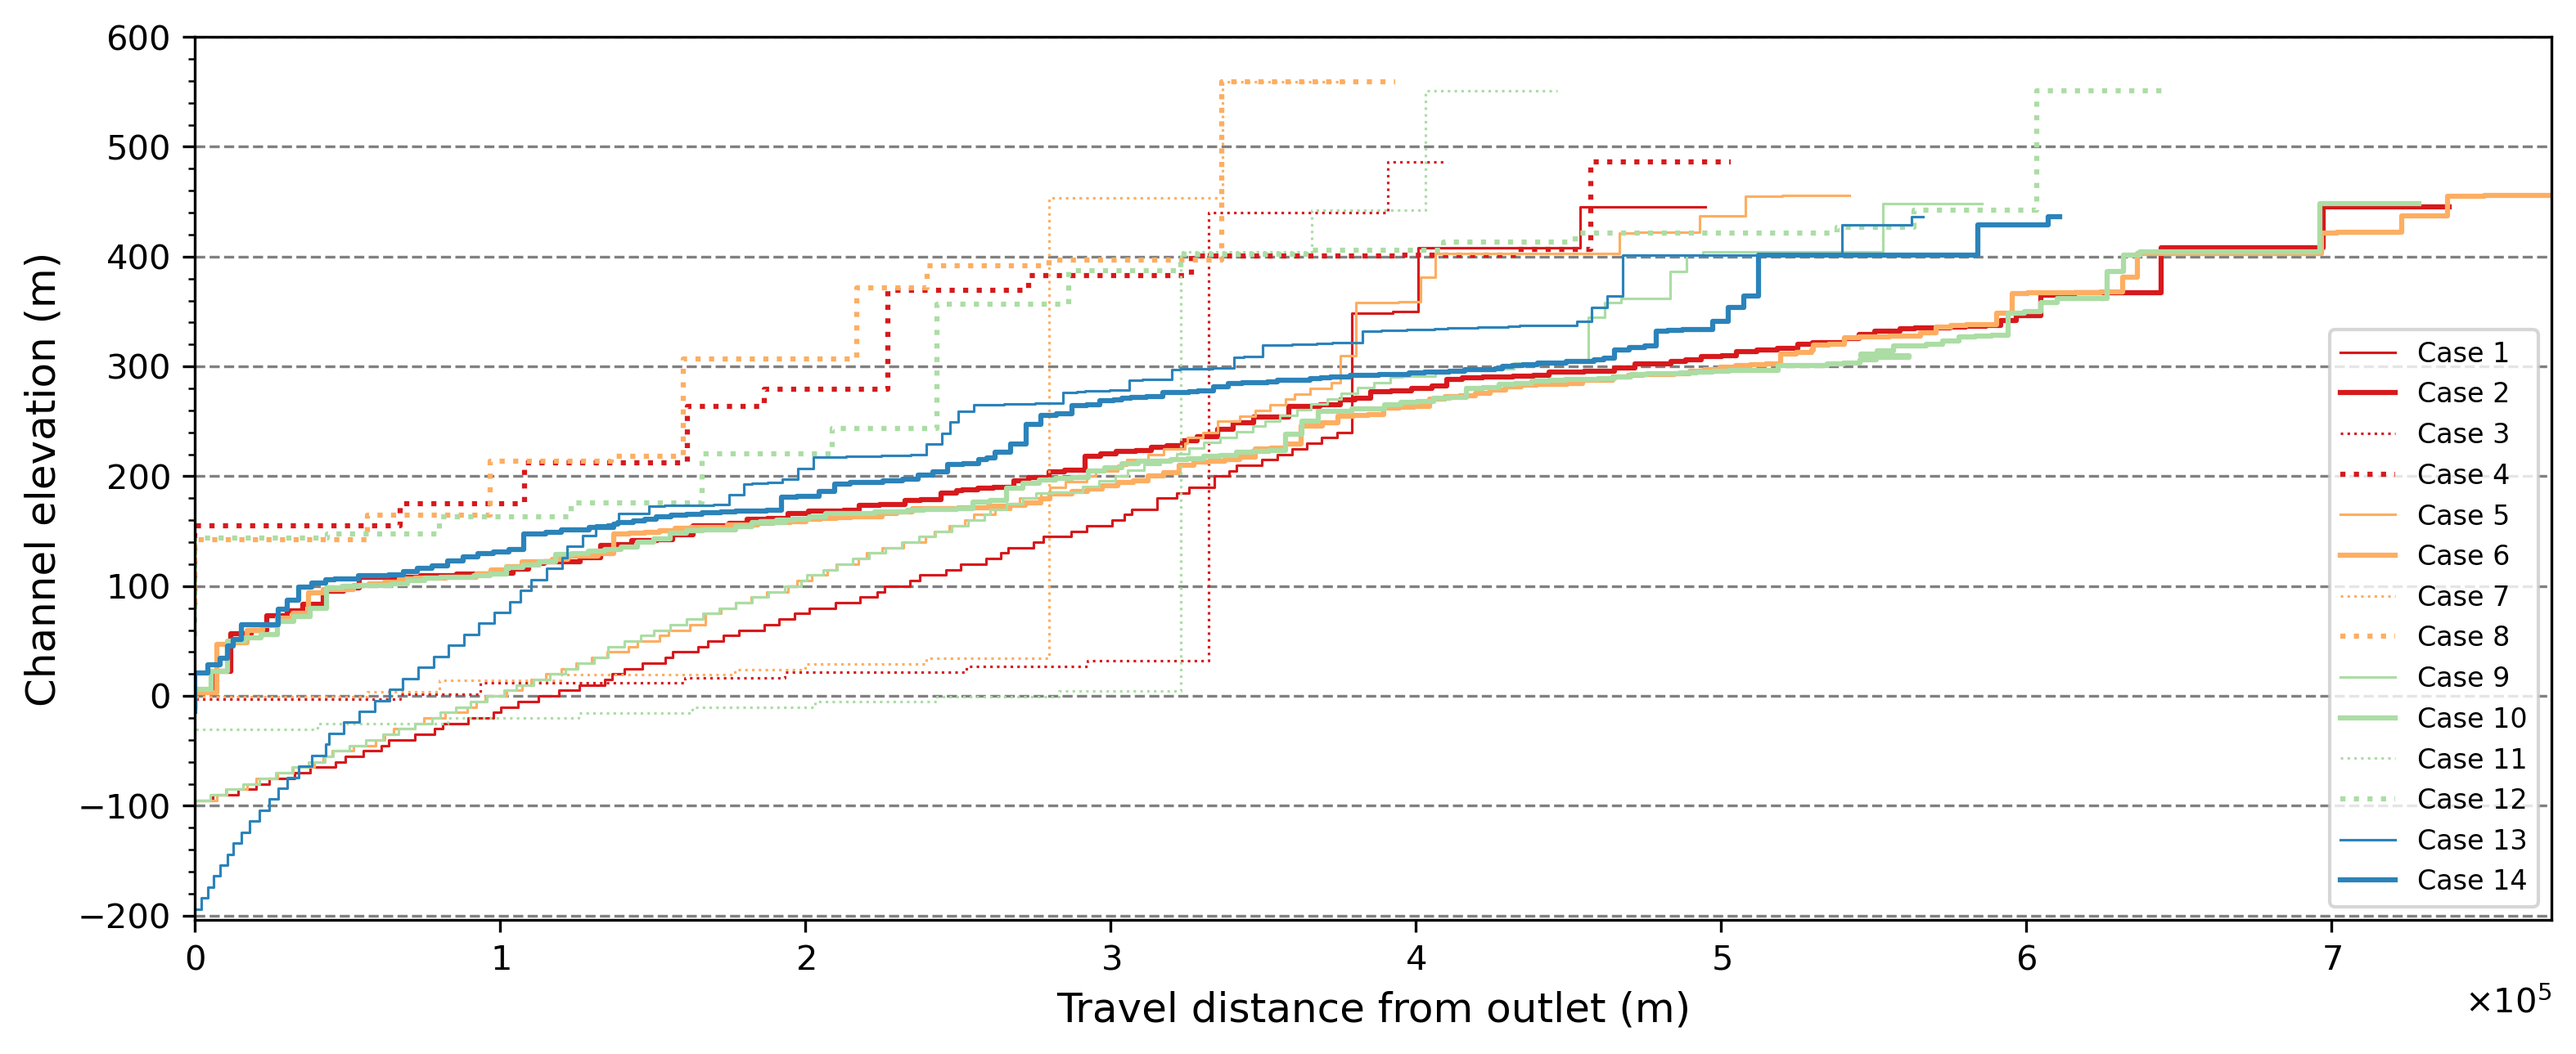
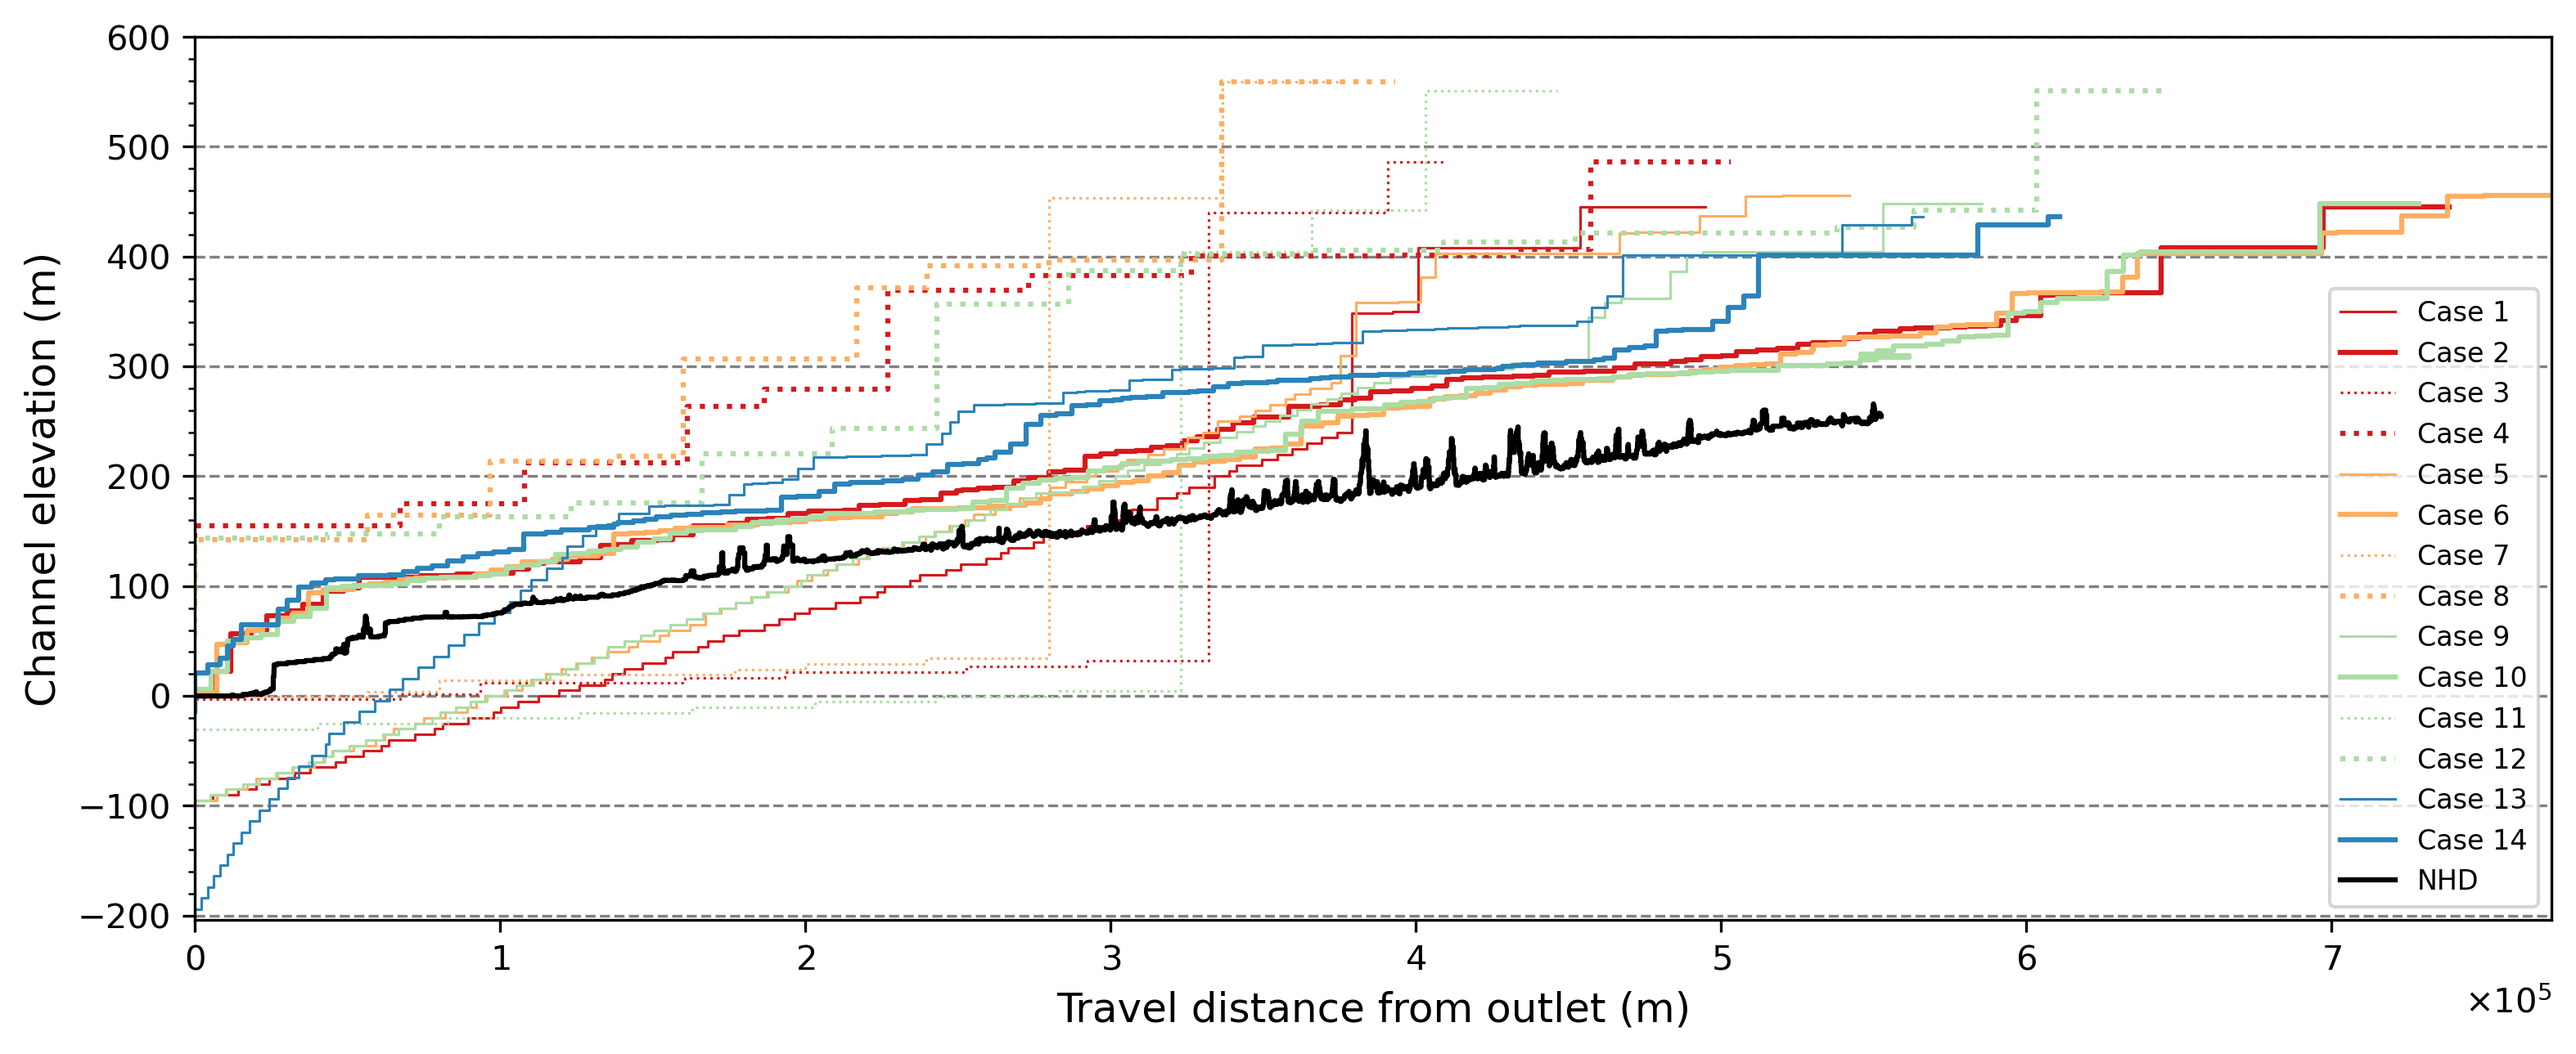
update elev

diff --git a/code/python/visual/ladderplot_river_elevation.py b/code/python/visual/ladderplot_river_elevation.py
@@ -7,13 +7,14 @@ import numpy as np
 from osgeo import  osr, gdal, ogr
 from shapely.wkt import loads
 import matplotlib.pyplot as plt
+from pyearth.toolbox.reader.text_reader_string import text_reader_string
 from pyhexwatershed.pyhexwatershed_read_model_configuration_file import pyhexwatershed_read_model_configuration_file
 import matplotlib as mpl
 
 from pyearth.visual.ladder.ladder_plot_xy_data import ladder_plot_xy_data
 from pyearth.visual.color.create_diverge_rgb_color_hex import create_diverge_rgb_color_hex
 # getting the data
-sPath_parent = str(Path(__file__).parents[2]) # data is located two dir's up
+sPath_parent = str(Path(__file__).parents[3]) # data is located two dir's up
 print(sPath_parent)
 sPath_data = realpath( sPath_parent +  '/data/susquehanna' )
 sWorkspace_input =  str(Path(sPath_data)  /  'input')
@@ -39,6 +40,17 @@ pSrs = osr.SpatialReference()
 pSrs.ImportFromEPSG(4326)    # WGS84 lat/lon
 
 nPoint = pLayer_site.GetFeatureCount()
+for i in range(nPoint):
+    pFeature= pLayer_site.GetFeature(i)
+    pGeometry_in = pFeature.GetGeometryRef()
+    sGeometry_type = pGeometry_in.GetGeometryName()
+    lID =0 
+    dDistance_line=0.0
+    if sGeometry_type =='POINT':
+        site_id = pFeature.GetField("identifier")
+        if site_id == "USGS-01497842":
+            headwater = loads( pGeometry_in.ExportToWkt() )
+            break
 #aData = list()
 #aPolygon=list()
 #aDistance=list()
@@ -95,7 +107,7 @@ for iCase_index in range(1, nCase +1):
                 
         
         sWorkspace_watershed = sWorkspace_watershed =  os.path.join( sWorkspace_output_hexwatershed,  sWatershed )
-        sFilename_json = os.path.join(sWorkspace_output_hexwatershed ,   'travel_distance.geojson')
+        sFilename_json = os.path.join(sWorkspace_watershed ,   'travel_distance.geojson')
         pDriver = ogr.GetDriverByName('GeoJSON')
         pDataset = pDriver.Open(sFilename_json, gdal.GA_ReadOnly)
         pLayer = pDataset.GetLayer(0)
@@ -129,17 +141,7 @@ for iCase_index in range(1, nCase +1):
     nPolygon = len(aPolygon_case)
     #read nwis info
     
-    for i in range(nPoint):
-        pFeature= pLayer_site.GetFeature(i)
-        pGeometry_in = pFeature.GetGeometryRef()
-        sGeometry_type = pGeometry_in.GetGeometryName()
-        lID =0 
-        dDistance_line=0.0
-        if sGeometry_type =='POINT':
-            site_id = pFeature.GetField("identifier")
-            if site_id == "USGS-01497842":
-                headwater = loads( pGeometry_in.ExportToWkt() )
-                break
+    
 
     aElevation_main = list()
     aDistance_main =list()
@@ -181,17 +183,29 @@ for iCase_index in range(1, nCase +1):
         aElevation_main.reverse()
         aY_all.append(aElevation_main)
     else:
-        print(lCellID)
+        print(iCase_index, lCellID)
         #pass
+
+#read obs
+#data/elevation_ladder/Channel_dem_travel_distrance.csv
+sFilename_obs = sPath_parent + '/' + 'data/elevation_ladder/Channel_dem_travel_distrance.csv'
+a = text_reader_string(sFilename_obs,cDelimiter_in=',')
+aX_obs= a[:,0].astype(float)
+aY_obs= a[:,1].astype(float)
+
+aX_obs = np.reshape(aX_obs, len(aX_obs))
+aY_obs = np.reshape(aY_obs, len(aY_obs))
+
 
 sFilename_out = sPath_parent + '/' + 'figures' + '/' + 'river_ladder.png'
 sLabel_x = 'Travel distance from outlet (m)'
 sLabel_y = 'Channel elevation (m)'
-aColor = np.full(14, None, dtype=object)
-aMarker= np.full(14, None, dtype=object)
-aSize = np.full(14, None, dtype=object)
-aLinestyle = np.full(14, None, dtype=object)
-aLinewidth = np.full(14, None, dtype=object)
+
+aColor = np.full(15, None, dtype=object)
+aMarker= np.full(15, None, dtype=object)
+aSize = np.full(15, None, dtype=object)
+aLinestyle = np.full(15, None, dtype=object)
+aLinewidth = np.full(15, None, dtype=object)
 
 nmesh=4
 aColor0= create_diverge_rgb_color_hex(nmesh)
@@ -222,7 +236,15 @@ for i in range(nCase):
         aLinewidth[i] =mpl.rcParams['lines.linewidth'] * 1
         
 
-    
+aX_all.append(aX_obs)
+aY_all.append(aY_obs)
+aColor[14] = '#000000'
+aMarker[14]= '.'
+aSize[14] = mpl.rcParams['lines.markersize'] 
+aLinestyle[14] = '-'
+aLinewidth[14] = mpl.rcParams['lines.linewidth'] 
+
+aLabel_legend.append('NHD')
 
 sFormat_x =  '%.1E'
 ladder_plot_xy_data(aX_all,  aY_all,  \

diff --git a/code/python/drt/create_drt_elevation_ladder.py b/code/python/drt/create_drt_elevation_ladder.py
@@ -1,0 +1,9 @@
+#drt has no mean elevation
+
+#drt file
+
+#point
+
+#track
+
+#save 
